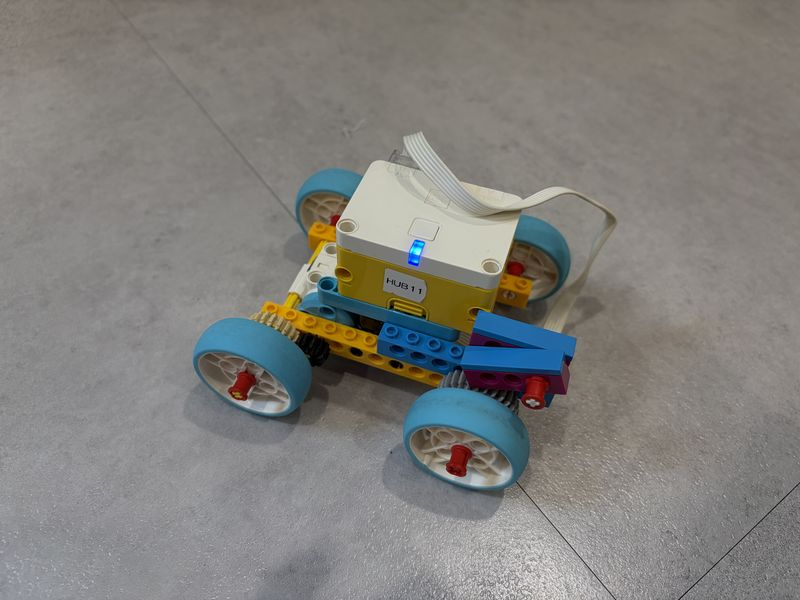
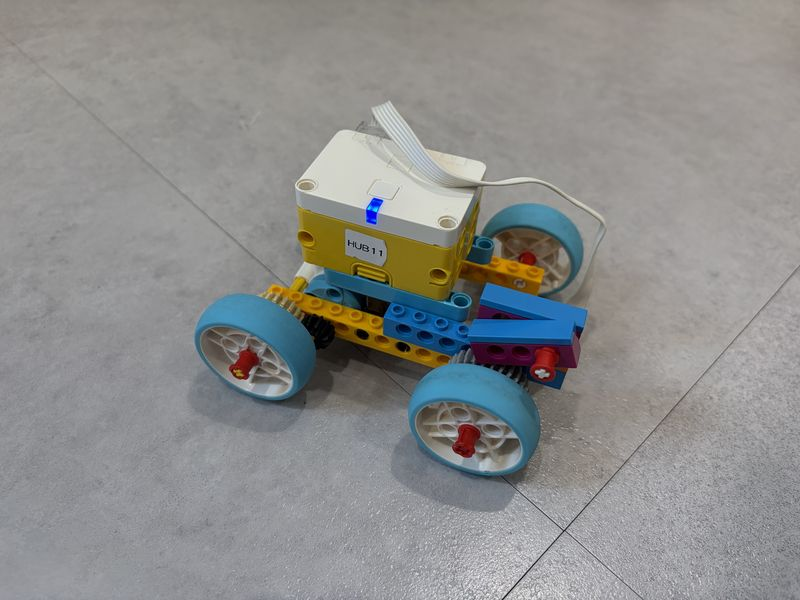
ハブの位置の写真2枚を入れ替え、備考の注意を赤字にする（モーター１個で曲がる車・速いステアリングカー）
Claude-Session: https://claude.ai/code/session_013sSqceVxKg9H732aftrmmq

diff --git a/src/styles/global.css b/src/styles/global.css
@@ -172,3 +172,5 @@ article ul { padding-left: 1.25em; }
 .note-pair { display: grid; grid-template-columns: 1fr 1fr; gap: 8px; margin: 16px 0; }
 .note-pair figcaption { grid-column: 1 / -1; font-weight: 700; color: var(--text); }
 .note-pair img { display: block; width: 100%; height: auto; border: 1px solid var(--line); border-radius: 8px; }
+/* 備考の中で、特に読んでほしい注意（赤字） */
+.warn { color: #c62828; }

diff --git a/src/content/texts/one-motor-car.md b/src/content/texts/one-motor-car.md
@@ -14,7 +14,7 @@ techTags: [ギア, 動力移動, ラチェット機構, アイコンブロック
 tools: [レゴ]
 ---
 
-組み立ては比較的簡単ですが、前と後ろのタイヤにかかる重さをパーツでうまく調整しないと曲がれないため、難しさを⭐3にしています。うまくいかなくても何度も試行錯誤できるお子さんにおすすめです。
+組み立ては比較的簡単ですが、前と後ろのタイヤにかかる重さをパーツでうまく調整しないと曲がれないため、難しさを⭐3にしています。<strong class="warn">うまくいかなくても何度も試行錯誤できるお子さんにおすすめです。</strong>
 
 テキストどおりに作った場合でも、床に合わせてハブを付ける位置を変えると、バックで曲がれるようになりました。車の写真は、どちらも左が前です。
 

diff --git a/src/content/texts/lego-steering.md b/src/content/texts/lego-steering.md
@@ -14,4 +14,4 @@ techTags: [ギア, 動力移動, ステアリング]
 tools: [レゴ]
 ---
 
-23ページのペグ2個は不要です。付けずに進めてください。
+<span class="warn">23ページのペグ2個は不要です。付けずに進めてください。</span>
